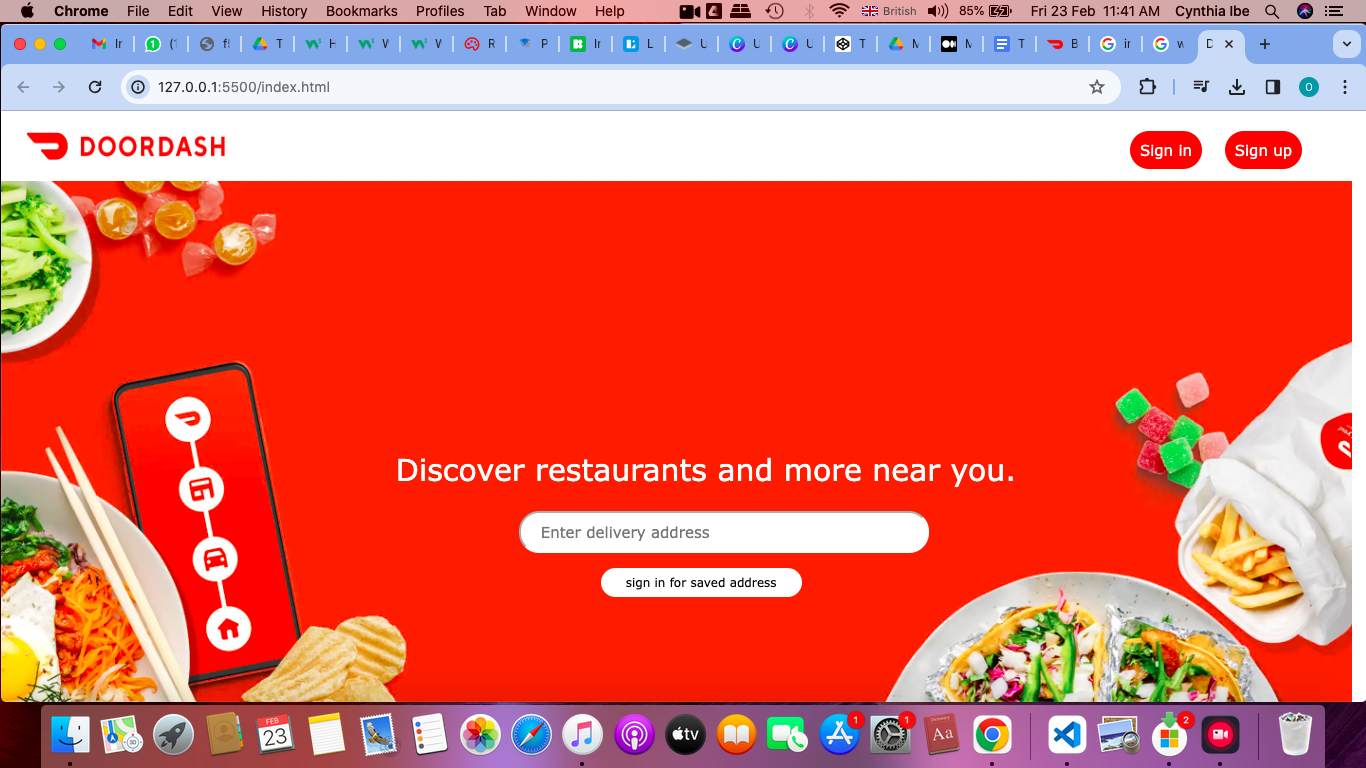
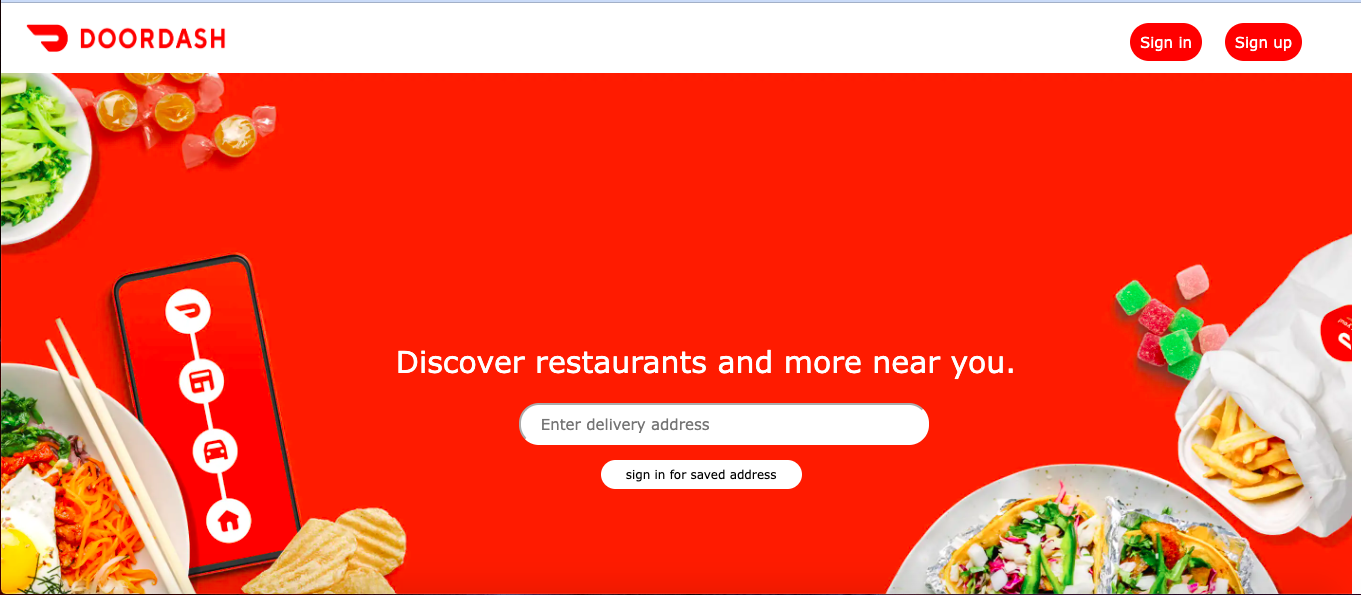
second commit

diff --git a/style.css b/style.css
@@ -2,6 +2,8 @@
 
 :root {
   --yellow: #f9ca24;
+  --sub-color: #a5862a5b;
+  --main-color: #a5862af0;
 }
 
 * {
@@ -17,8 +19,8 @@
 }
 
 *::selection {
-  background: var(--yellow);
-  color: #333;
+  background: var(--main-color);
+  color: #fff;
 }
 
 html {
@@ -31,15 +33,15 @@ html::-webkit-scrollbar {
 }
 
 html::-webkit-scrollbar-track {
-  background: #222;
+  background: #eee;
 }
 
 html::-webkit-scrollbar-thumb {
-  background: var(--yellow);
+  background: var(--main-color);
 }
 
 body {
-  background: #111;
+  background: #fff /*linear-gradient(120deg, #fff, #eee)*/;
   overflow-x: hidden;
   padding-left: 35rem;
 }
@@ -49,14 +51,27 @@ section {
   padding: 1rem;
 }
 
+.btn-container {
+  display: flex;
+  justify-content: center;
+  gap: 1rem;
+}
+
 .btn {
-  padding: 0.7rem 3rem;
-  background: #333;
-  color: #fff;
+  padding: 1rem 2rem;
+  background: #fff;
+  color: #333;
   cursor: pointer;
   margin-top: 1rem;
   font-size: 2rem;
+  border: 0.2rem solid var(--sub-color);
   border-radius: 5rem;
+  /*box-shadow: 4px 0 20px -5px rgba(0, 0, 0, 0.2);*/
+}
+
+.btn-color {
+  background-color: #a5862ada;
+  color: #fff;
 }
 
 .btn i {
@@ -65,7 +80,7 @@ section {
 }
 
 .btn:hover {
-  background: var(--yellow);
+  background: var(--main-color);
   color: #fff;
 }
 
@@ -74,12 +89,12 @@ section {
   margin: 0 6rem;
   font-size: 4rem;
   padding: 1rem;
-  border-bottom: 0.1rem solid #fff4;
-  color: #fff;
+  border-bottom: 0.1rem solid var(--sub-color);
+  color: #333;
 }
 
 .heading span {
-  color: var(--yellow);
+  color: var(--main-color);
 }
 
 header {
@@ -89,12 +104,13 @@ header {
   z-index: 1000;
   height: 100%;
   width: 35rem;
-  background: #1a1a1a;
+  background: #fff /*linear-gradient(120deg, #fff, #eee)*/;
   display: flex;
   align-items: center;
   justify-content: center;
   flex-flow: column;
   text-align: center;
+  box-shadow: 4px 0 20px -5px rgba(0, 0, 0, 0.2);
 }
 
 header .user img {
@@ -103,17 +119,17 @@ header .user img {
   border-radius: 50%;
   object-fit: cover;
   margin-bottom: 1rem;
-  border: 0.7rem solid var(--yellow);
+  border: 0.7rem solid var(--main-color);
 }
 
 header .user .name {
   font-size: 3.5rem;
-  color: #fff;
+  color: #333;
 }
 
 header .user .post {
   font-size: 2rem;
-  color: #eee;
+  color: #444;
 }
 
 header .navbar {
@@ -129,21 +145,24 @@ header .navbar ul li a {
   display: block;
   padding: 1rem;
   margin: 1.5rem 0;
-  background: #333;
-  color: #fff;
+  background: #fff;
+  color: #333;
   font-size: 2rem;
   border-radius: 5rem;
+  border: 0.2rem solid var(--sub-color);
+  /*box-shadow: 4px 0 20px -5px rgba(0, 0, 0, 0.2);*/
 }
 
 header .navbar ul li a:hover {
-  background: var(--yellow);
+  background: var(--main-color);
+  color: #fff;
 }
 
 #menu {
   position: fixed;
   top: 2rem;
   right: 2rem;
-  background: #333;
+  background: var(--main-color);
   color: #fff;
   cursor: pointer;
   font-size: 2.5rem;
@@ -160,22 +179,25 @@ header .navbar ul li a:hover {
 }
 
 .home h3 {
-  font-size: 2.5rem;
-  color: #fff;
+  font-size: 3.5rem;
+  color: #333;
+  margin: 0 auto;
 }
 
 .home h1 {
   font-size: 5rem;
-  color: #fff;
+  font-weight: 700;
+  color: #333;
+  margin: 0 auto;
 }
 
 .home h1 span {
-  color: var(--yellow);
+  color: var(--main-color);
 }
 
 .home p {
   font-size: 2rem;
-  color: #eee;
+  color: #444;
   padding: 1rem 0;
 }
 
@@ -195,13 +217,13 @@ header .navbar ul li a:hover {
 
 .about .row .info h3 {
   font-size: 2rem;
-  color: var(--yellow);
+  color: var(--main-color);
   padding: 1rem 0;
   font-weight: normal;
 }
 
 .about .row .info h3 span {
-  color: #eee;
+  color: #333;
   padding: 0 0.5rem;
 }
 
@@ -214,19 +236,20 @@ header .navbar ul li a:hover {
 
 .about .row .counter .box {
   width: 15rem;
-  background: #222;
+  background: #fff;
+  border: 0.2rem solid var(--sub-color);
   padding: 2rem;
   margin: 2rem;
 }
 
 .about .row .counter .box span {
   font-size: 4rem;
-  color: var(--yellow);
+  color: var(--main-color);
 }
 
 .about .row .counter .box h3 {
   font-size: 2rem;
-  color: #fff;
+  color: #333;
 }
 
 .education .box-container {
@@ -242,27 +265,27 @@ header .navbar ul li a:hover {
   width: 27rem;
   margin: 4rem 1rem;
   padding-left: 4rem;
-  border-left: 0.2rem solid #fff;
+  border-left: 0.2rem solid var(--sub-color);
   position: relative;
 }
 
 .education .box-container .box span {
   font-size: 1.3rem;
-  background: #222;
-  color: #fff;
+  background: var(--sub-color);
+  color: #333;
   border-radius: 5rem;
   padding: 0.5rem 2.5rem;
 }
 
 .education .box-container .box h3 {
   font-size: 2rem;
-  color: #fff;
+  color: #333;
   padding-top: 1.5rem;
 }
 
 .education .box-container .box p {
   font-size: 1.4rem;
-  color: #eee;
+  color: #444;
   padding: 1rem 0;
 }
 
@@ -277,7 +300,7 @@ header .navbar ul li a:hover {
   text-align: center;
   font-size: 2rem;
   color: #fff;
-  background: var(--yellow);
+  background: var(--main-color);
 }
 
 .projects .box-container {
@@ -330,8 +353,9 @@ header .navbar ul li a:hover {
 .contact .row form .box {
   padding: 1.5rem;
   margin: 1rem 0;
-  background: #333;
-  color: #fff;
+  background: #fff;
+  border: 0.2rem solid var(--sub-color);
+  color: #333;
   text-transform: none;
   font-size: 1.7rem;
   width: 100%;
@@ -348,7 +372,7 @@ header .navbar ul li a:hover {
 
 .contact .row .content .title {
   text-transform: uppercase;
-  color: #fff;
+  color: #333;
   font-size: 3rem;
   padding-bottom: 2rem;
 }
@@ -357,14 +381,19 @@ header .navbar ul li a:hover {
   display: flex;
   align-items: center;
   font-size: 2rem;
-  color: #eee;
+  color: #444;
   padding: 1rem 0;
   font-weight: normal;
 }
 
+.contact .row .content .info h3 a {
+  color: #333;
+  text-transform: none;
+}
+
 .contact .row .content .info h3 i {
   padding-right: 1rem;
-  color: var(--yellow);
+  color: var(--main-color);
 }
 
 .top {
@@ -374,12 +403,3 @@ header .navbar ul li a:hover {
   z-index: 100;
   display: none;
 }
-
-/*
-:root {
-  --bg-color: linear-gradient(120deg, #fff, #077def);
-  --second-bg-color: #75afe1;
-  --text-color: #000;
-  --text2-color: #333;
-  --main-color: #c6730c;
-} */

diff --git a/index.html b/index.html
@@ -42,16 +42,16 @@
 
     <!-- home section starts  -->
     <section class="home" id="home">
-      <h3>HI THERE !</h3>
-      <h1>I'M <span>Ibe Okorafor</span></h1>
+      <h3>Hello, I'm</h3>
+      <h1><span>Ibe Okorafor</span></h1>
       <p>
-        Lorem ipsum dolor sit amet consectetur adipisicing elit. Quia soluta
-        ipsum ea quasi fuga animi laborum officia voluptatum quis vitae! Lorem
-        ipsum dolor sit amet consectetur, adipisicing elit. Debitis, modi!
+        A front end developer with a solid foundation in HTML, CSS, and
+        JavaScript, I strive to craft elegant and responsive web designs.
       </p>
-      <a href="#about"
-        ><button class="btn">about me <i class="fas fa-user"></i></button
-      ></a>
+      <div class="btn-container">
+        <button class="btn">about me <i class="fas fa-user"></i></button>
+        <button class="btn btn-color">contact info</button>
+      </div>
     </section>
     <!-- home section ends  -->
 
@@ -211,8 +211,16 @@
         <div class="content">
           <h3 class="title">contact info</h3>
           <div class="info">
-            <h3><i class="fas fa-envelope"></i> ibe.okorafor@gmail.com</h3>
-            <h3><i class="fas fa-phone"></i> +234-813-884-1658</h3>
+            <h3>
+              <a href="mailto:ibe.okorafor@gmail.com"
+                ><i class="fas fa-envelope"></i> ibe.okorafor@gmail.com</a
+              >
+            </h3>
+            <h3>
+              <a href="tel:+2348138841658"
+                ><i class="fas fa-phone"></i> +234-813-884-1658</a
+              >
+            </h3>
             <h3>
               <i class="fas fa-map-marker-alt"></i> lagos, nigeria - 100211
             </h3>
